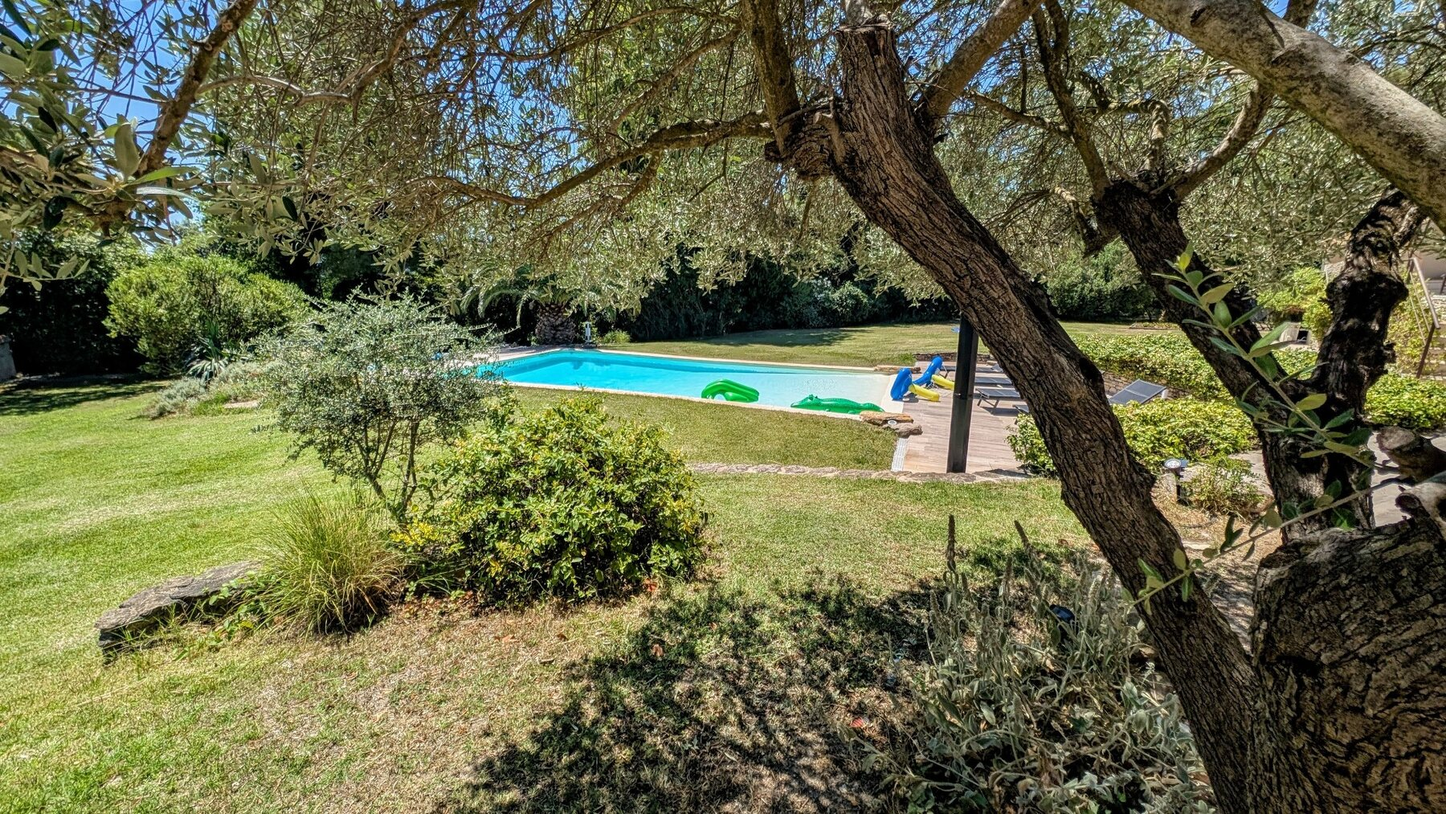
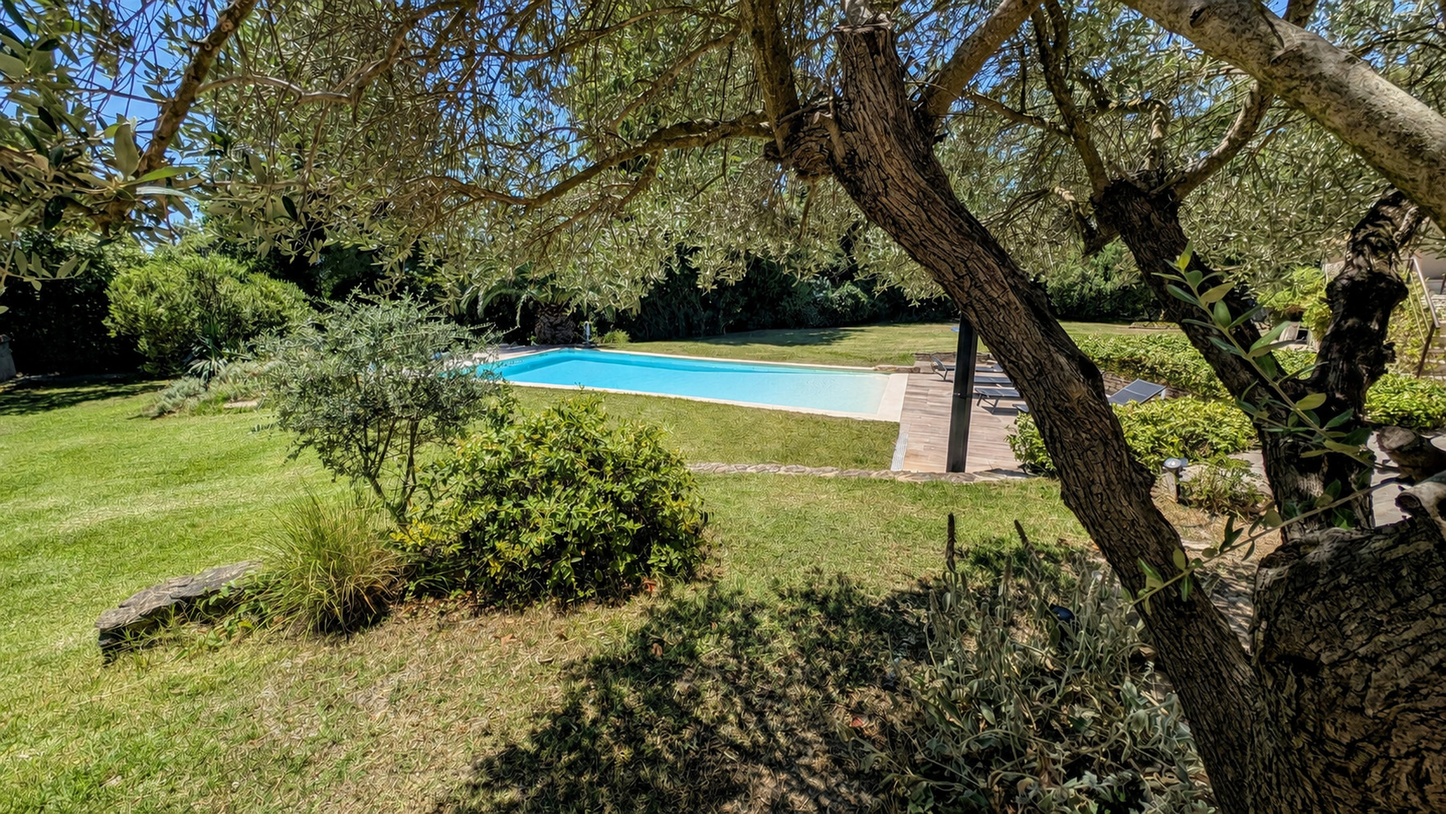
Corrige la galerie et les boutons d’accueil

diff --git a/index.html b/index.html
@@ -13,7 +13,6 @@
     grid-row: span 2;
   }
 
-  .gallery-item-12,
   .gallery-item-14,
   .gallery-item-16,
   .gallery-item-19,
@@ -27,7 +26,6 @@
       grid-row: span 2;
     }
 
-    .gallery-item-12,
     .gallery-item-14,
     .gallery-item-16,
     .gallery-item-19,
@@ -207,10 +205,6 @@
 <button class="gallery-item gallery-item-11" aria-label="Agrandir : Le cœur de la maison">
 <img src="/masduluberonrouge/images/new/sejour.jpg" alt="Grand séjour lumineux avec salon, escalier et piano" loading="lazy"/>
 <span>Le cœur de la maison</span>
-</button>
-<button class="gallery-item gallery-item-12" aria-label="Agrandir : Sous l’olivier, l’été">
-<img src="/masduluberonrouge/images/new/piscine-sous-olivier-2.jpg" alt="Piscine et vaste jardin observés à l’ombre d’un olivier ancien" loading="lazy"/>
-<span>Sous l’olivier, l’été</span>
 </button>
 <button class="gallery-item gallery-item-13" aria-label="Agrandir : Dedans–dehors">
 <img src="/masduluberonrouge/images/new/salon-terrasse.jpg" alt="Salon de terrasse ombragé ouvert sur la piscine" loading="lazy"/>
@@ -509,12 +503,12 @@
     lightbox.className = "lightbox";
     lightbox.setAttribute("role", "dialog");
     lightbox.setAttribute("aria-modal", "true");
-    lightbox.innerHTML = '<button class="lightbox-close" aria-label="Fermer">×</button>
+    lightbox.innerHTML = `<button class="lightbox-close" aria-label="Fermer">×</button>
 <button class="lightbox-prev" aria-label="Photo précédente">‹</button>
 <img alt="">
 <p>
 </p>
-<button class="lightbox-next" aria-label="Photo suivante">›</button>';
+<button class="lightbox-next" aria-label="Photo suivante">›</button>`;
     document.body.appendChild(lightbox);
     document.body.style.overflow = "hidden";
     showImage(index);
